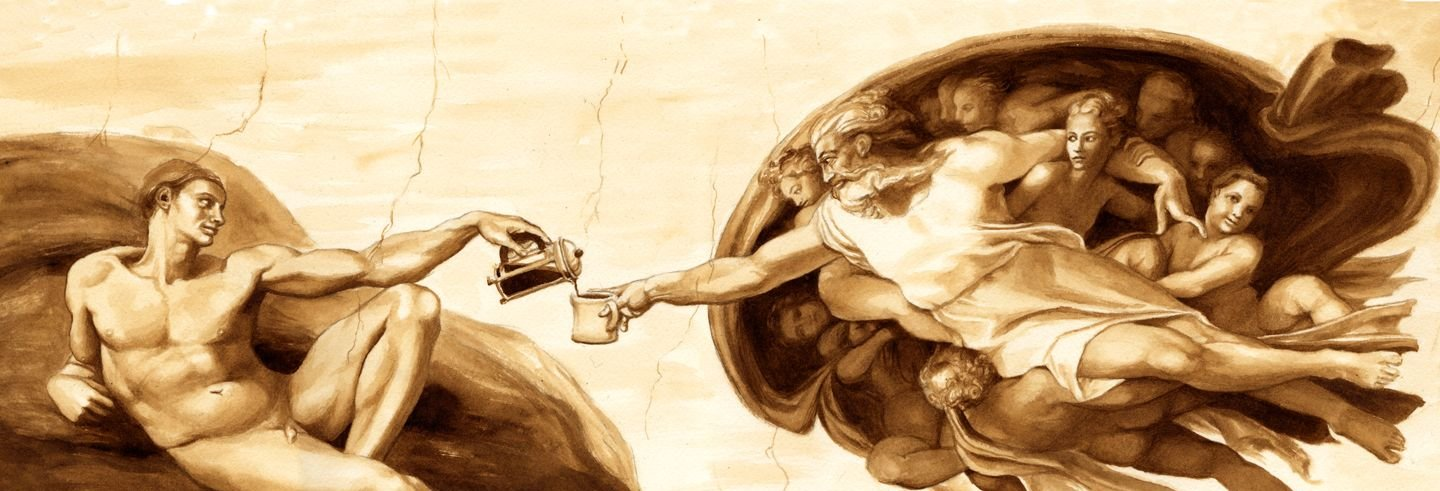
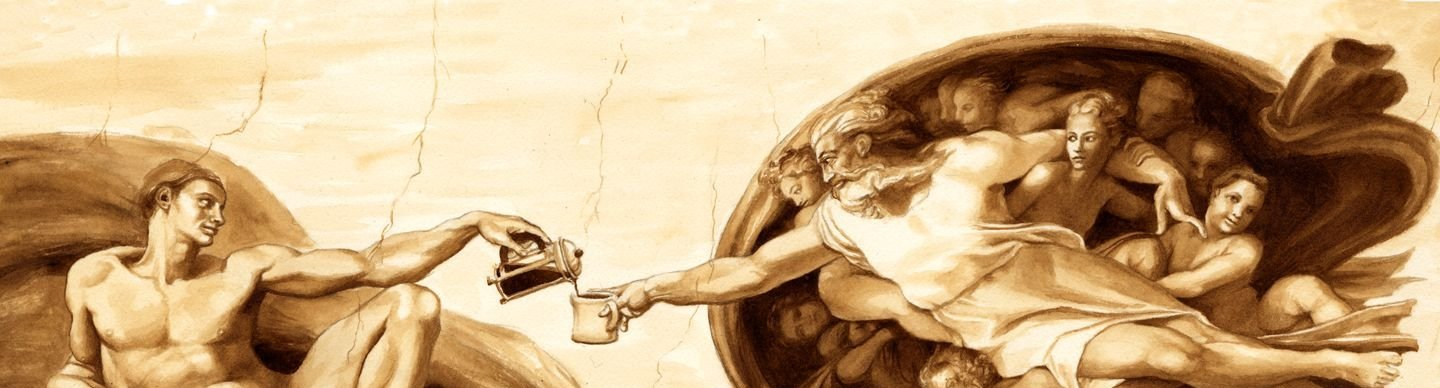
Основа БД

diff --git a/src/ui/main/Welcome.jsx b/src/ui/main/Welcome.jsx
@@ -1,7 +1,7 @@
 import Header from "../header/Header";
 import Container from "react-bootstrap/Container";
 import Gallery_M from "./gallery_masonry/Gallery_M.jsx";
-import Footer from "../Footer/Footer.jsx";
+import Footer from "../footer/Footer.jsx";
 
 export default function Welcome() {
 
@@ -31,7 +31,7 @@ export default function Welcome() {
                     <img
                         className="footer_reveal-1"
                         width="100%"
-                        height="100%"
+                        height="90%"
                         src="./src/assets/daria_best_heirstyle.jpg"
                     />
                 </Container>

diff --git a/src/App.css b/src/App.css
@@ -45,7 +45,7 @@
 }
 
 .gallery-item:hover {
-    transform: scale(1.1);
+    transform: scale(1.03);
 }
 
 .gallery-item img {
@@ -71,10 +71,12 @@
 }
 
 .footer_img {
-    background: url(/src/assets/fon_footer1.jpg) no-repeat fixed;
+    background-repeat: no-repeat;
+    background-image: url(/src/assets/fon_footer1.jpg);
+    background-attachment: fixed;
     background-size: cover;
-    width: 100%;
     height: 50vh;
+    width: 100%;
 }
 
 .sorted-gallery_btn {

diff --git a/src/ui/main/Contacts.jsx b/src/ui/main/Contacts.jsx
@@ -1,7 +1,7 @@
 import {Form, InputGroup} from "react-bootstrap";
 import Container from "react-bootstrap/Container";
 import Header from "../header/Header.jsx";
-import Footer from "../Footer/Footer.jsx";
+import Footer from "../footer/Footer.jsx";
 
 export default function Contacts() {
     function sendEmailQuestion(e) {

diff --git a/src/ui/main/Examples.jsx b/src/ui/main/Examples.jsx
@@ -1,5 +1,5 @@
 import Header from "../header/Header.jsx";
-import Footer from "../Footer/Footer.jsx";
+import Footer from "../footer/Footer.jsx";
 import Gallery_M from "./gallery_masonry/Gallery_M.jsx";
 import {Tab, Tabs} from "react-bootstrap";
 import SortedGallery from "./sorted_gallery/SortedGallery.jsx";

diff --git a/src/ui/footer/Footer.jsx b/src/ui/footer/Footer.jsx
@@ -8,7 +8,6 @@ import {Container} from '@mui/material';
 export default function Footer() {
     const navigate = useNavigate();
 
-
     function sendExamples(e) {
         e.preventDefault();
         console.log("sendExamples");

diff --git a/src/ui/main/About.jsx b/src/ui/main/About.jsx
@@ -1,5 +1,5 @@
 import Header from "../header/Header.jsx";
-import Footer from "../Footer/Footer.jsx";
+import Footer from "../footer/Footer.jsx";
 
 export default function About() {
 
